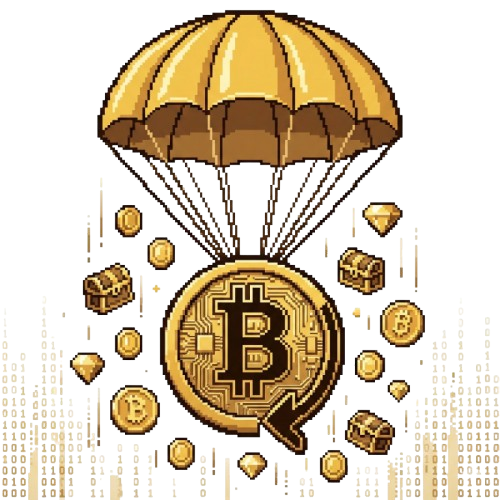
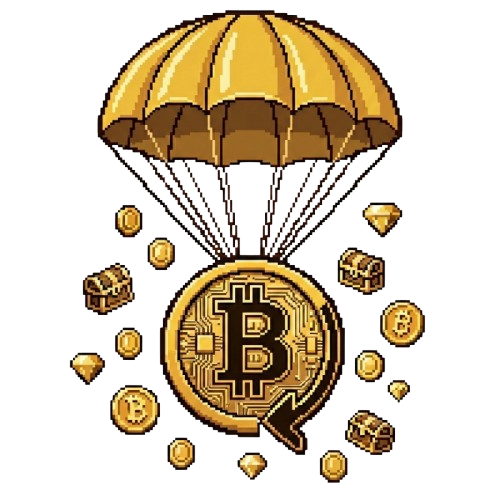
V2.1: Airdrop fullscreen loading with motivational messages

diff --git a/pages/AirdropPage.js b/pages/AirdropPage.js
@@ -1,5 +1,5 @@
 // pages/AirdropPage.js
-// ✅ VERSION V2.0: Mobile-first redesign with airdrop.png animations
+// ✅ VERSION V2.1: Fullscreen loading with motivational messages, transparent icon backgrounds
 
 import { State } from '../state.js';
 import * as db from '../modules/firebase-auth-service.js';
@@ -12,6 +12,22 @@ import { formatAddress, renderNoData, formatBigNumber, renderLoading, renderErro
 
 const DEFAULT_HASHTAGS = "#BKC #Backcoin #Airdrop";
 const AUTO_APPROVE_HOURS = 2;
+
+// Motivational messages for loading screen
+const LOADING_MESSAGES = [
+    { title: "🚀 The More You Share, The More You Earn!", subtitle: "Every post brings you closer to amazing rewards" },
+    { title: "💰 Your Voice Has Value!", subtitle: "Help spread the word and get rewarded for it" },
+    { title: "🔥 Join the Movement!", subtitle: "Be part of something bigger and earn while doing it" },
+    { title: "⭐ Early Supporters Win Big!", subtitle: "The more you contribute now, the more you'll gain later" },
+    { title: "🎯 Complete Tasks, Earn Points!", subtitle: "Simple actions, real rewards" },
+    { title: "📈 Climb the Leaderboard!", subtitle: "Top contributors receive exclusive NFT Boosters" },
+    { title: "🎁 Rewards Await You!", subtitle: "Every share, every post, every action counts" },
+    { title: "💎 Your Effort = Your Reward!", subtitle: "The community grows together" }
+];
+
+function getRandomLoadingMessage() {
+    return LOADING_MESSAGES[Math.floor(Math.random() * LOADING_MESSAGES.length)];
+}
 
 function getMultiplierByTier(approvedCount) {
     if (approvedCount >= 100) return 10.0;
@@ -203,7 +219,7 @@ function renderHeader() {
         <div class="md:hidden px-4 pt-4 pb-2">
             <div class="flex items-center justify-between mb-4">
                 <div class="flex items-center gap-3">
-                    <div class="w-12 h-12 rounded-2xl bg-gradient-to-br from-amber-500/20 to-yellow-600/20 p-1.5 airdrop-float-slow">
+                    <div class="w-12 h-12 airdrop-float-slow">
                         <img src="./assets/airdrop.png" alt="Airdrop" class="w-full h-full object-contain drop-shadow-lg">
                     </div>
                     <div>
@@ -229,7 +245,7 @@ function renderHeader() {
         <div class="hidden md:block px-4 pt-6 pb-4">
             <div class="flex items-center justify-between mb-8">
                 <div class="flex items-center gap-4">
-                    <div class="w-16 h-16 rounded-2xl bg-gradient-to-br from-amber-500/20 to-yellow-600/20 p-2 airdrop-float shadow-lg shadow-amber-500/10">
+                    <div class="w-16 h-16 airdrop-float">
                         <img src="./assets/airdrop.png" alt="Airdrop" class="w-full h-full object-contain drop-shadow-lg">
                     </div>
                     <div>
@@ -839,18 +855,54 @@ export const AirdropPage = {
         if (!container) return;
 
         injectAirdropStyles();
+        
+        const loadingMsg = getRandomLoadingMessage();
 
         if (container.innerHTML.trim() === '' || isNewPage) {
             container.innerHTML = `
-                <div id="airdrop-header">${renderHeader()}</div>
-                <div id="airdrop-body" class="max-w-2xl mx-auto pb-24">
-                    <div id="loading-state" class="text-center py-16">
-                        <div class="w-20 h-20 mx-auto mb-4 airdrop-spin">
-                            <img src="./assets/airdrop.png" alt="Loading" class="w-full h-full object-contain opacity-60">
+                <div id="loading-state" class="fixed inset-0 z-50 bg-gradient-to-b from-zinc-900 via-zinc-900 to-black flex flex-col items-center justify-center px-6">
+                    <!-- Floating coins effect -->
+                    <div class="absolute inset-0 overflow-hidden pointer-events-none">
+                        <div class="absolute top-[10%] left-[10%] w-6 h-6 opacity-20 airdrop-float" style="animation-delay: 0s;">
+                            <img src="./assets/airdrop.png" alt="" class="w-full h-full object-contain">
                         </div>
-                        <p class="text-zinc-400 text-sm">Loading...</p>
+                        <div class="absolute top-[20%] right-[15%] w-8 h-8 opacity-15 airdrop-float" style="animation-delay: 0.5s;">
+                            <img src="./assets/airdrop.png" alt="" class="w-full h-full object-contain">
+                        </div>
+                        <div class="absolute bottom-[30%] left-[5%] w-5 h-5 opacity-10 airdrop-float" style="animation-delay: 1s;">
+                            <img src="./assets/airdrop.png" alt="" class="w-full h-full object-contain">
+                        </div>
+                        <div class="absolute bottom-[20%] right-[10%] w-7 h-7 opacity-15 airdrop-float" style="animation-delay: 1.5s;">
+                            <img src="./assets/airdrop.png" alt="" class="w-full h-full object-contain">
+                        </div>
                     </div>
-                    <div id="main-content" class="hidden"></div>
+                    
+                    <!-- Main content -->
+                    <div class="relative z-10 text-center max-w-sm">
+                        <!-- Large airdrop icon -->
+                        <div class="w-40 h-40 mx-auto mb-8 airdrop-float-slow">
+                            <img src="./assets/airdrop.png" alt="Airdrop" class="w-full h-full object-contain drop-shadow-2xl">
+                        </div>
+                        
+                        <!-- Motivational message -->
+                        <h2 class="text-2xl font-black text-white mb-3 leading-tight">${loadingMsg.title}</h2>
+                        <p class="text-zinc-400 text-sm mb-8">${loadingMsg.subtitle}</p>
+                        
+                        <!-- Loading indicator -->
+                        <div class="flex items-center justify-center gap-2 text-amber-500">
+                            <div class="w-2 h-2 rounded-full bg-amber-500 animate-bounce" style="animation-delay: 0s;"></div>
+                            <div class="w-2 h-2 rounded-full bg-amber-500 animate-bounce" style="animation-delay: 0.1s;"></div>
+                            <div class="w-2 h-2 rounded-full bg-amber-500 animate-bounce" style="animation-delay: 0.2s;"></div>
+                        </div>
+                        <p class="text-zinc-600 text-xs mt-3">Loading your rewards...</p>
+                    </div>
+                </div>
+                
+                <div id="airdrop-main" class="hidden">
+                    <div id="airdrop-header">${renderHeader()}</div>
+                    <div id="airdrop-body" class="max-w-2xl mx-auto pb-24">
+                        <div id="main-content"></div>
+                    </div>
                 </div>
             `;
             this.attachListeners();
@@ -859,8 +911,11 @@ export const AirdropPage = {
         try {
             await loadAirdropData();
             const loader = document.getElementById('loading-state');
+            const mainArea = document.getElementById('airdrop-main');
             const content = document.getElementById('main-content');
+            
             if(loader) loader.classList.add('hidden');
+            if(mainArea) mainArea.classList.remove('hidden');
             if(content) {
                 content.classList.remove('hidden');
                 updateContent();
